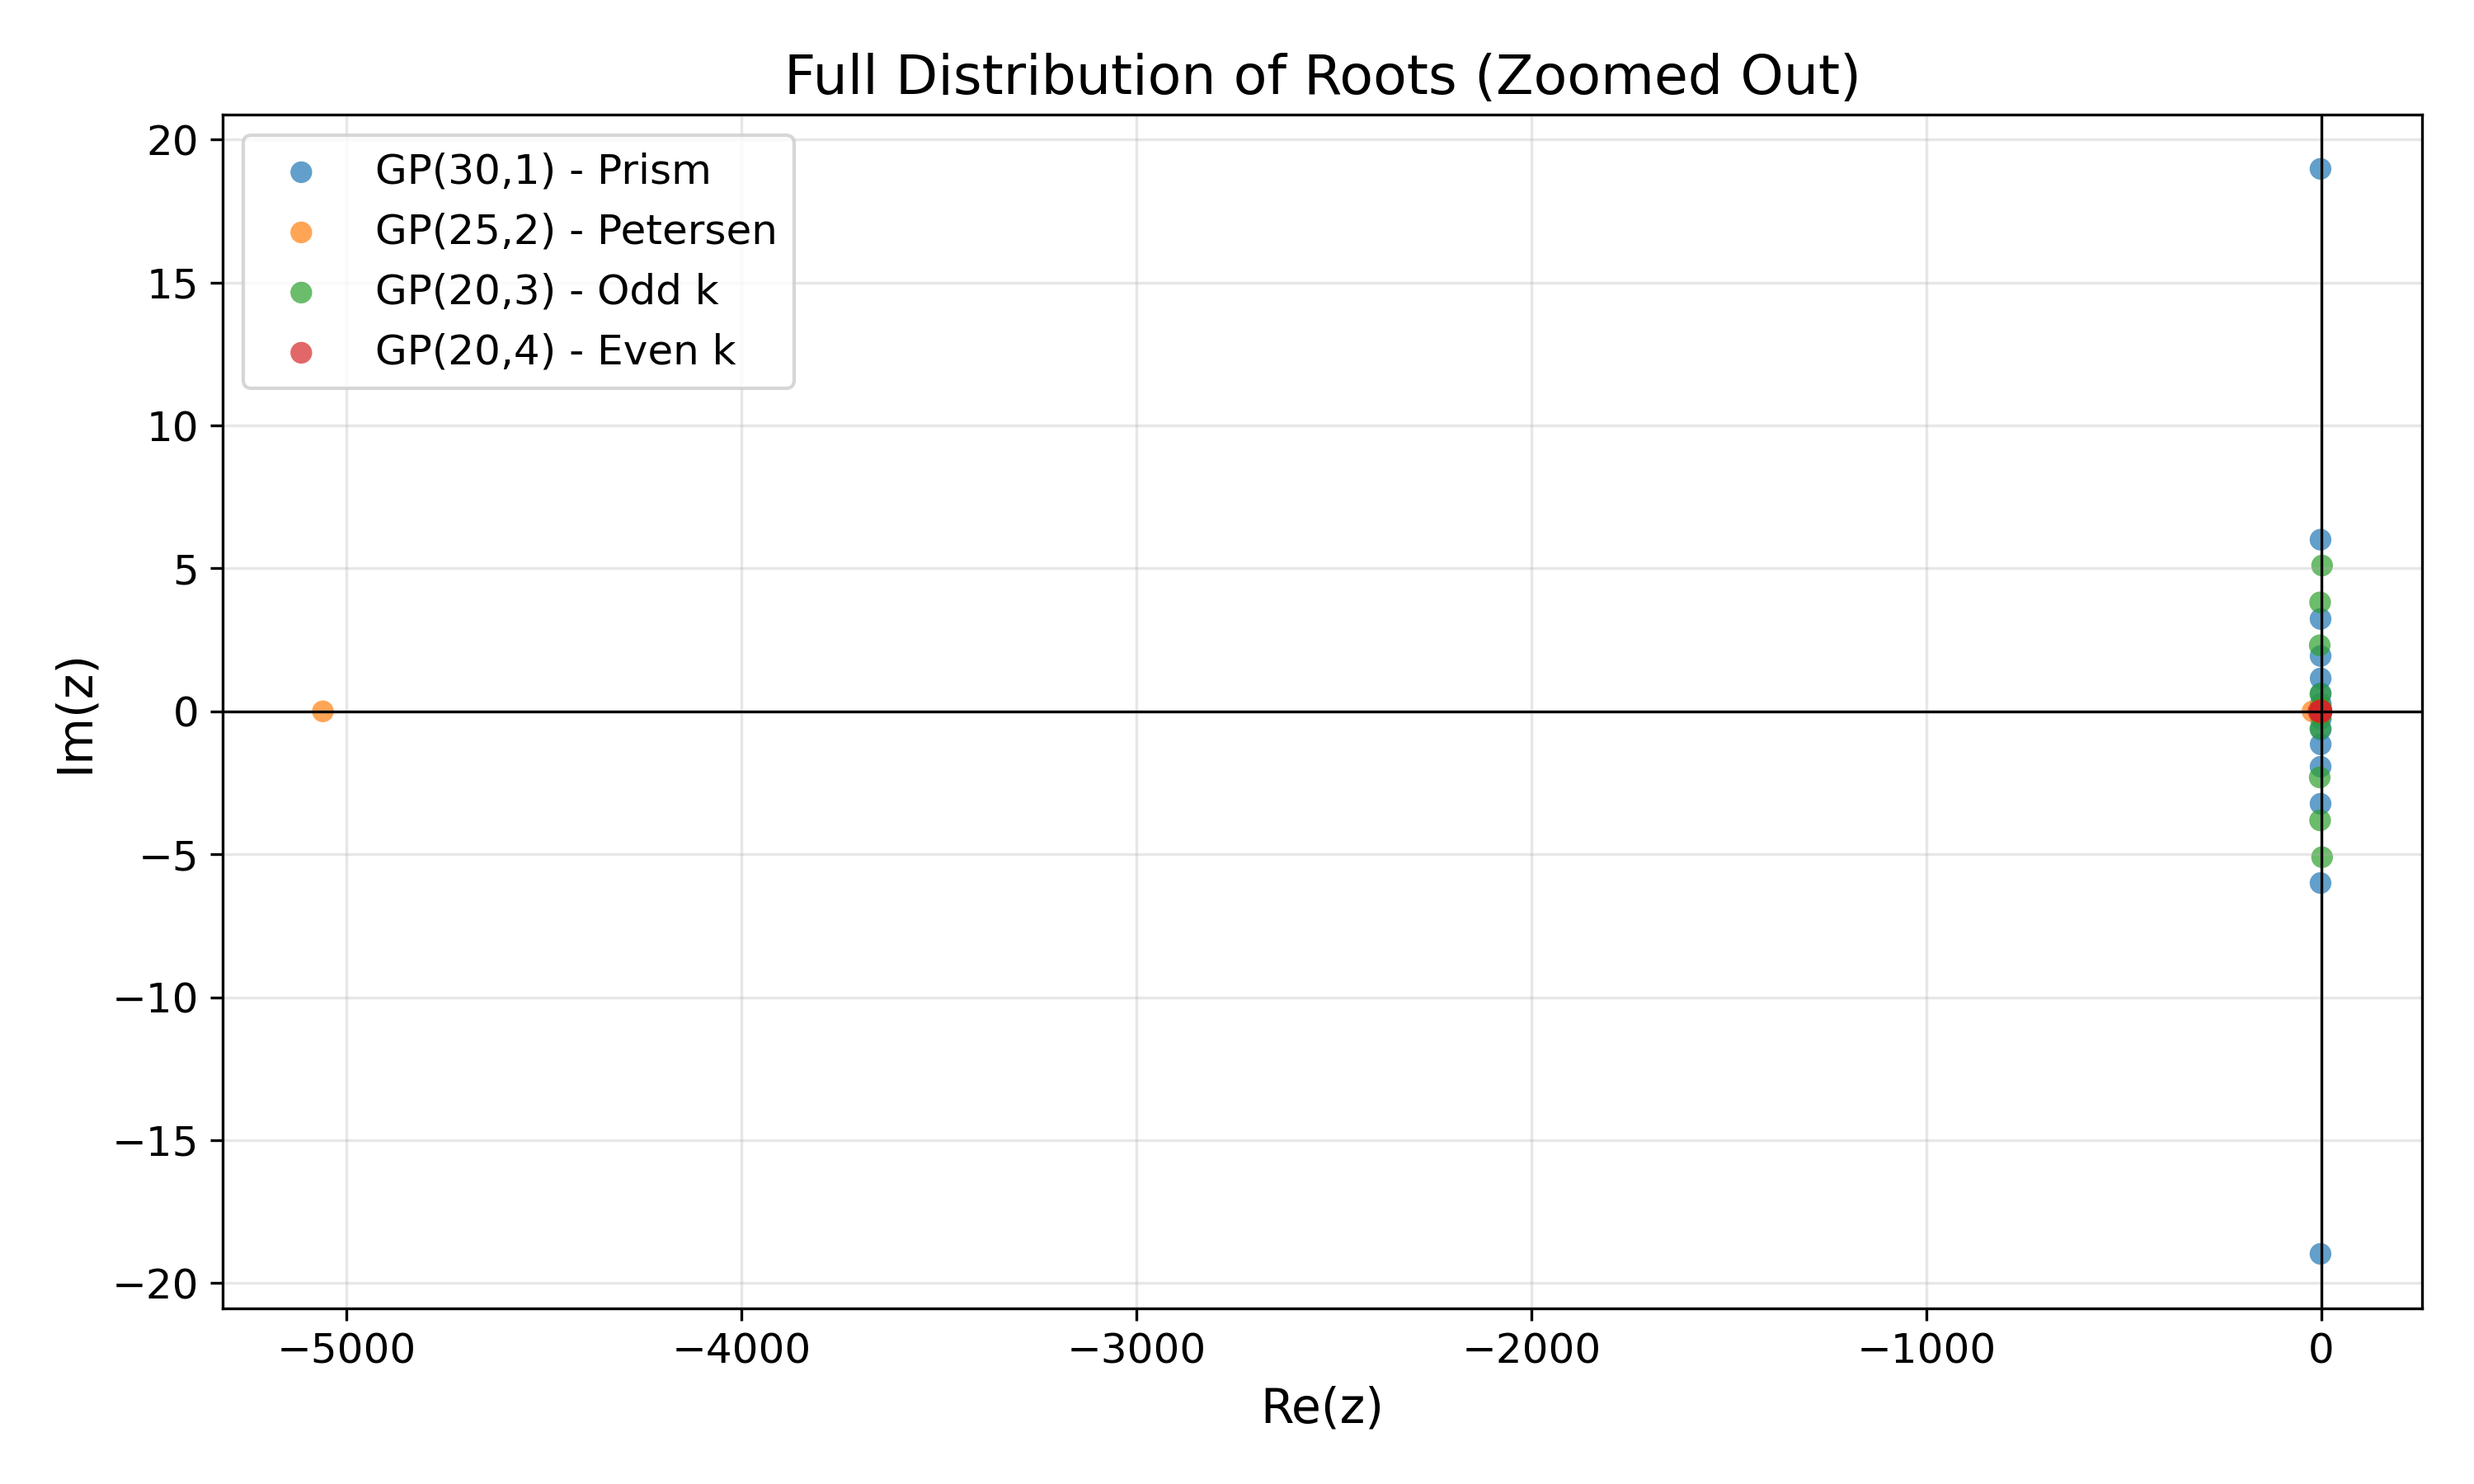
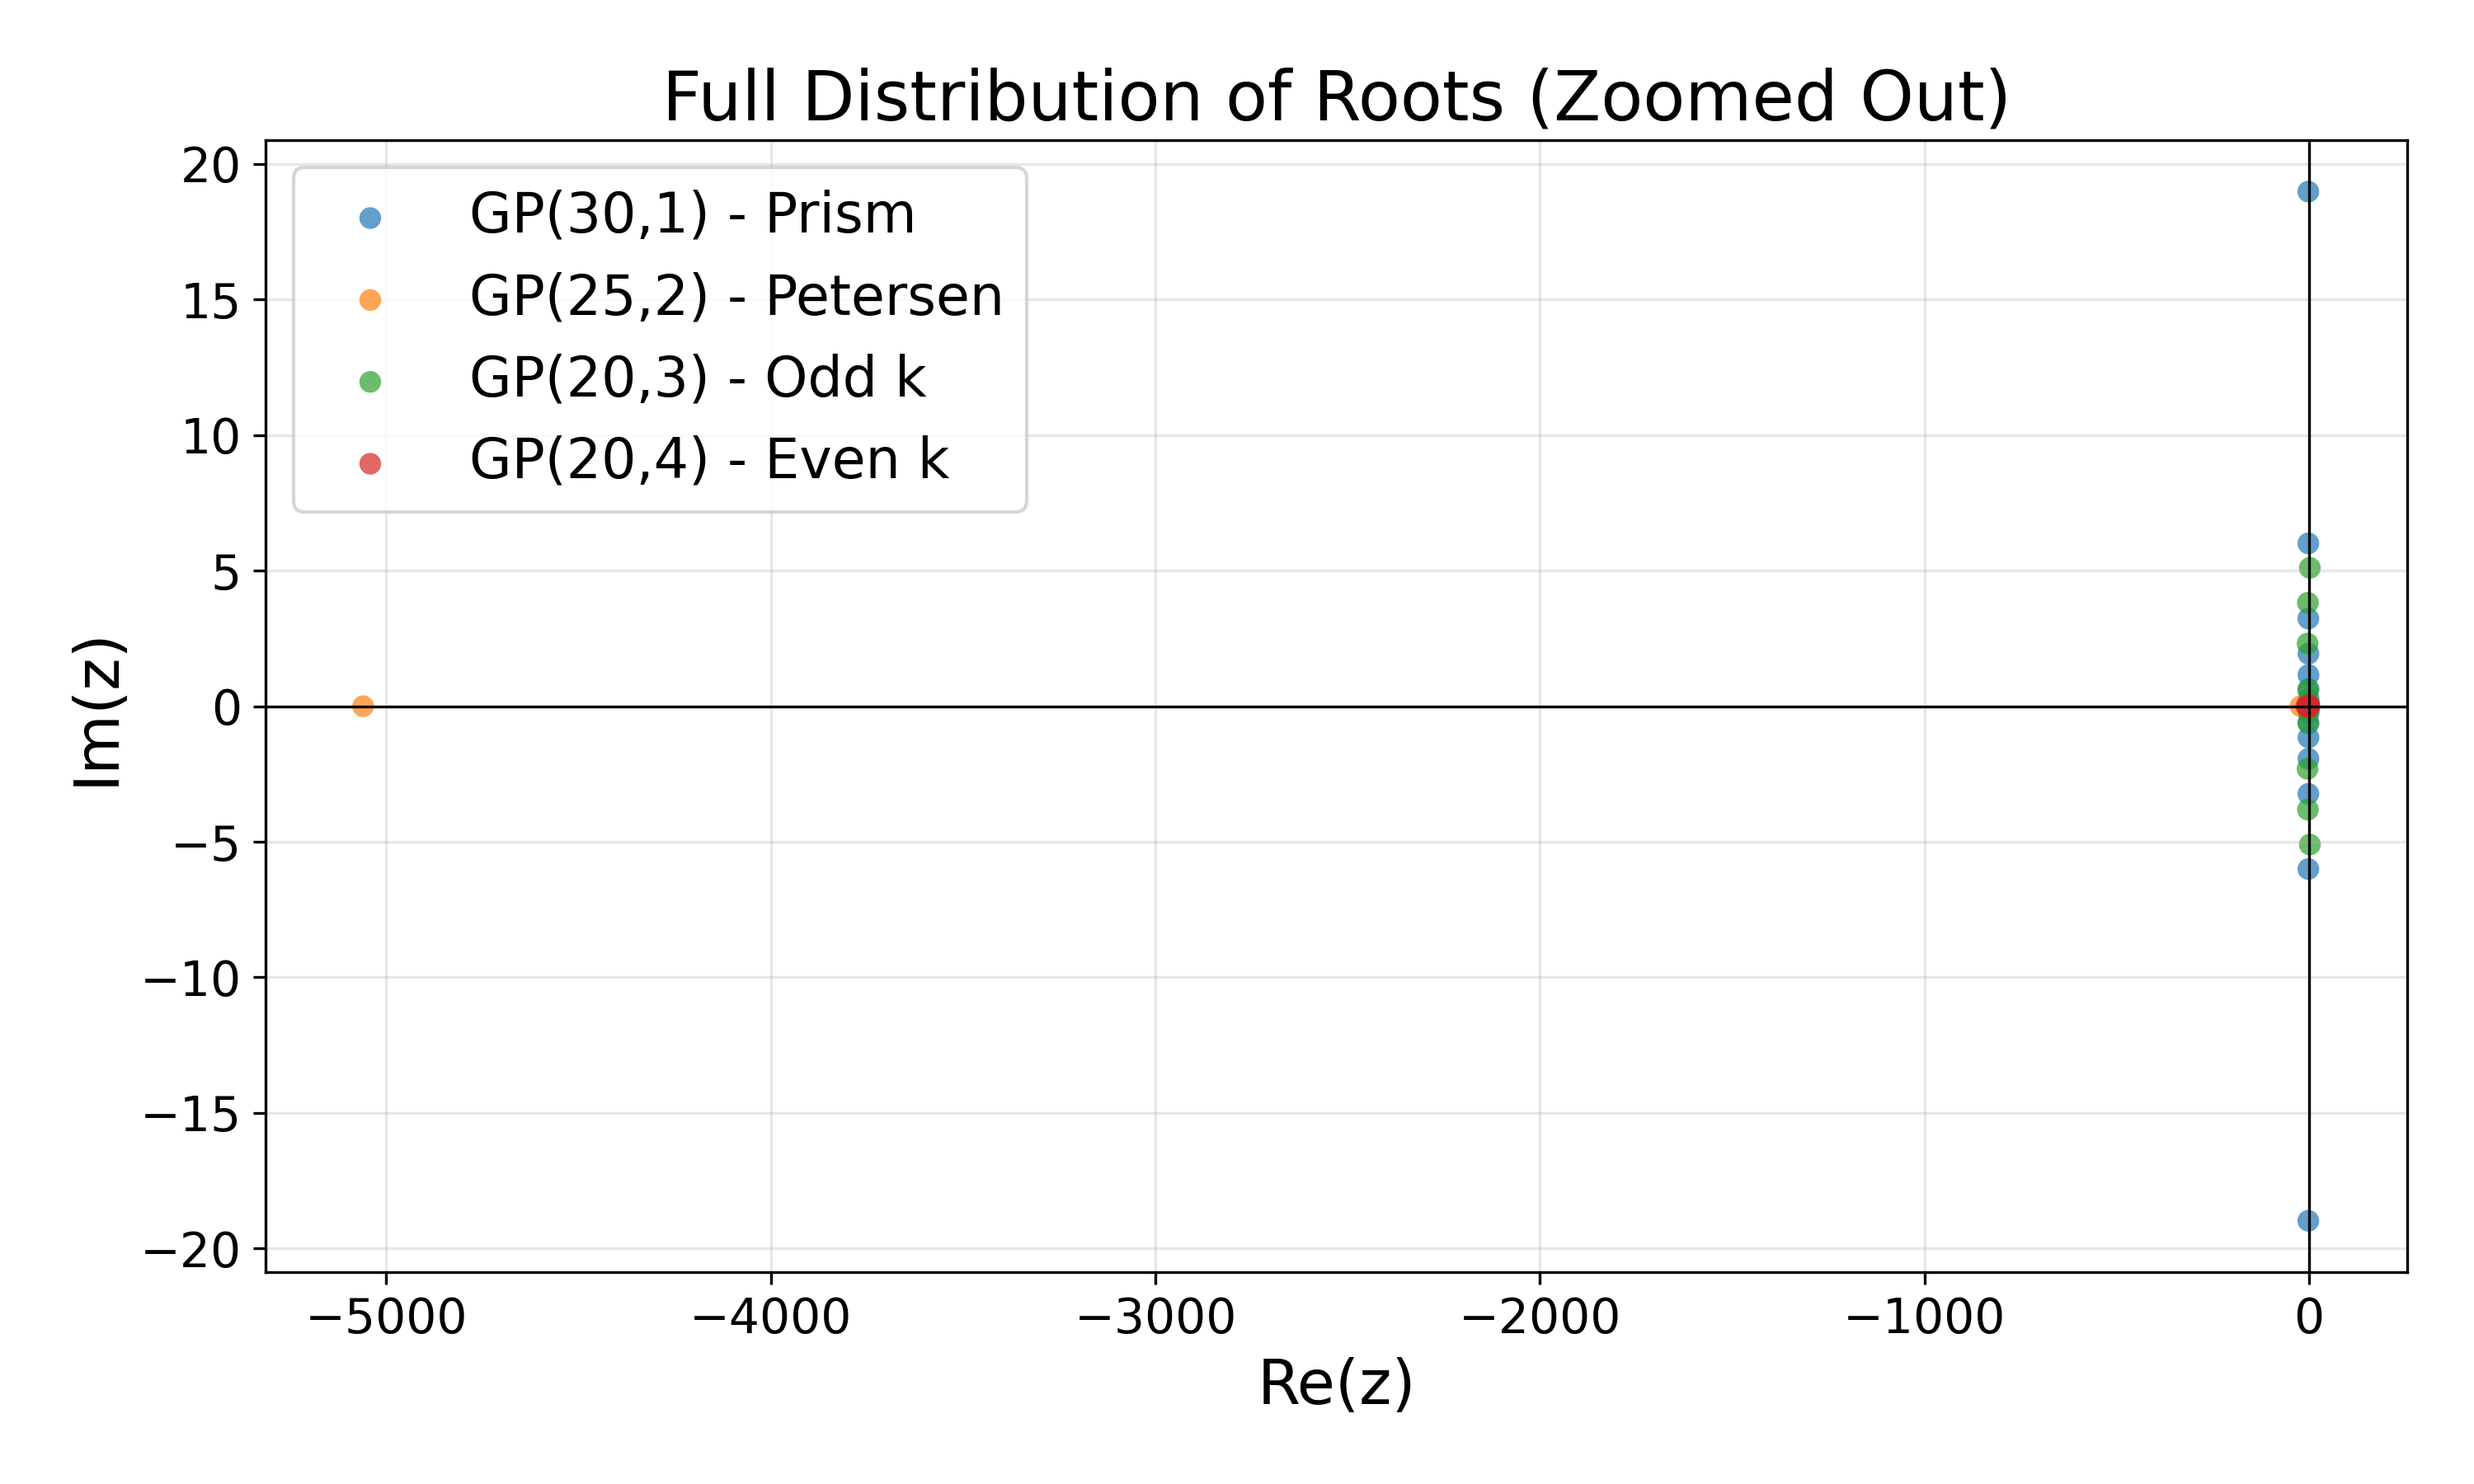
updates

diff --git a/new/transfer_matrix_solver.py b/new/transfer_matrix_solver.py
@@ -5,12 +5,13 @@ from sympy.abc import x
 
 # --- SETTINGS FOR BETTER LEGIBILITY ---
 plt.rcParams.update({
-    'font.size': 14,          # Global font size
-    'axes.titlesize': 16,     # Title size
-    'axes.labelsize': 14,     # Axis label size
-    'legend.fontsize': 12,    # Legend size
-    'xtick.labelsize': 12,    # Tick size
-    'ytick.labelsize': 12
+    'font.size': 18,          # Was 14, make it 18 or 20
+    'axes.titlesize': 20,     # Was 16
+    'axes.labelsize': 18,     # Was 14
+    'legend.fontsize': 16,    # Was 12 <--- This is the most important one
+    'xtick.labelsize': 14,
+    'ytick.labelsize': 14,
+    'lines.markersize': 10    # Make dots slightly bigger too
 })
 
 def build_transfer_matrix(k):
